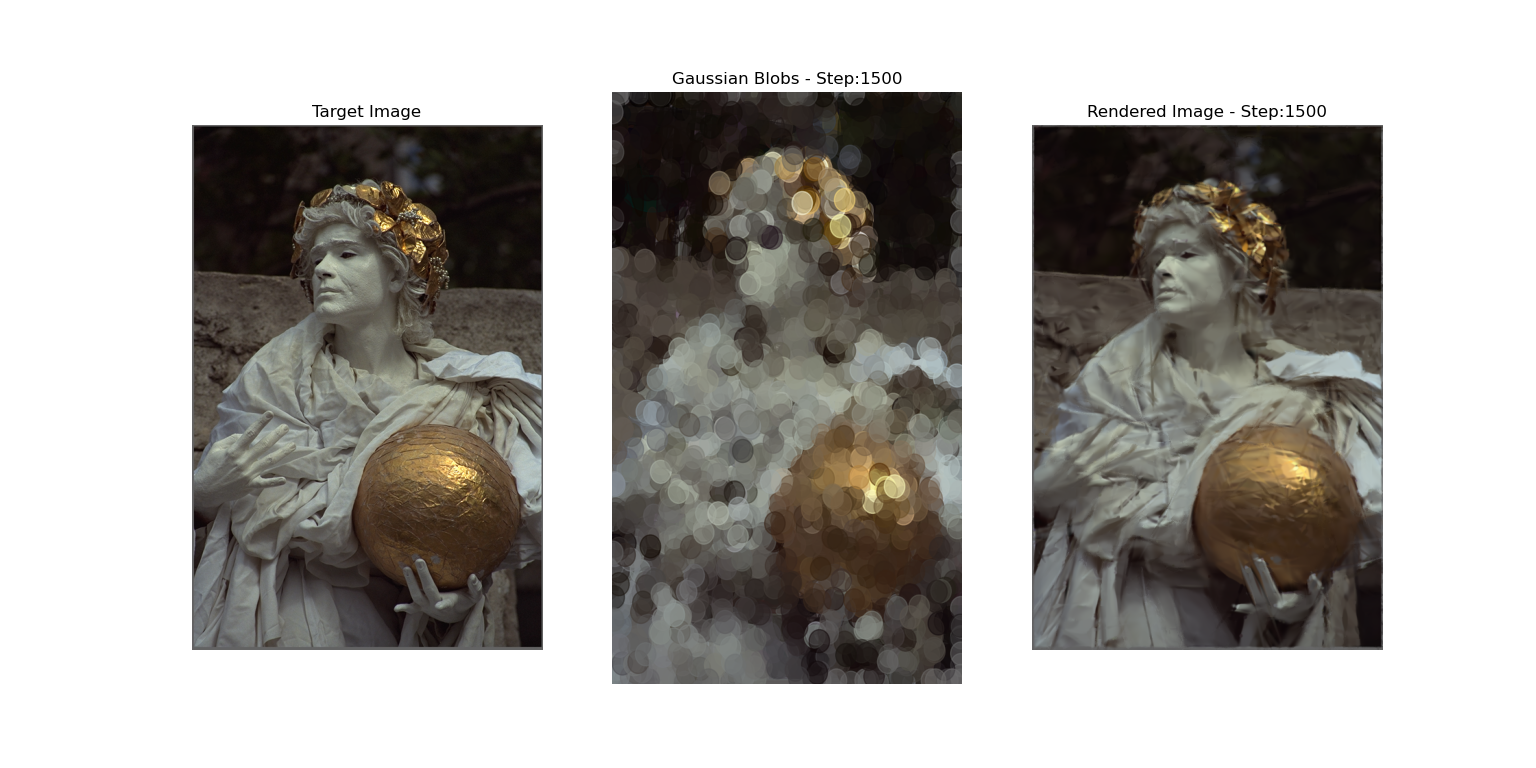
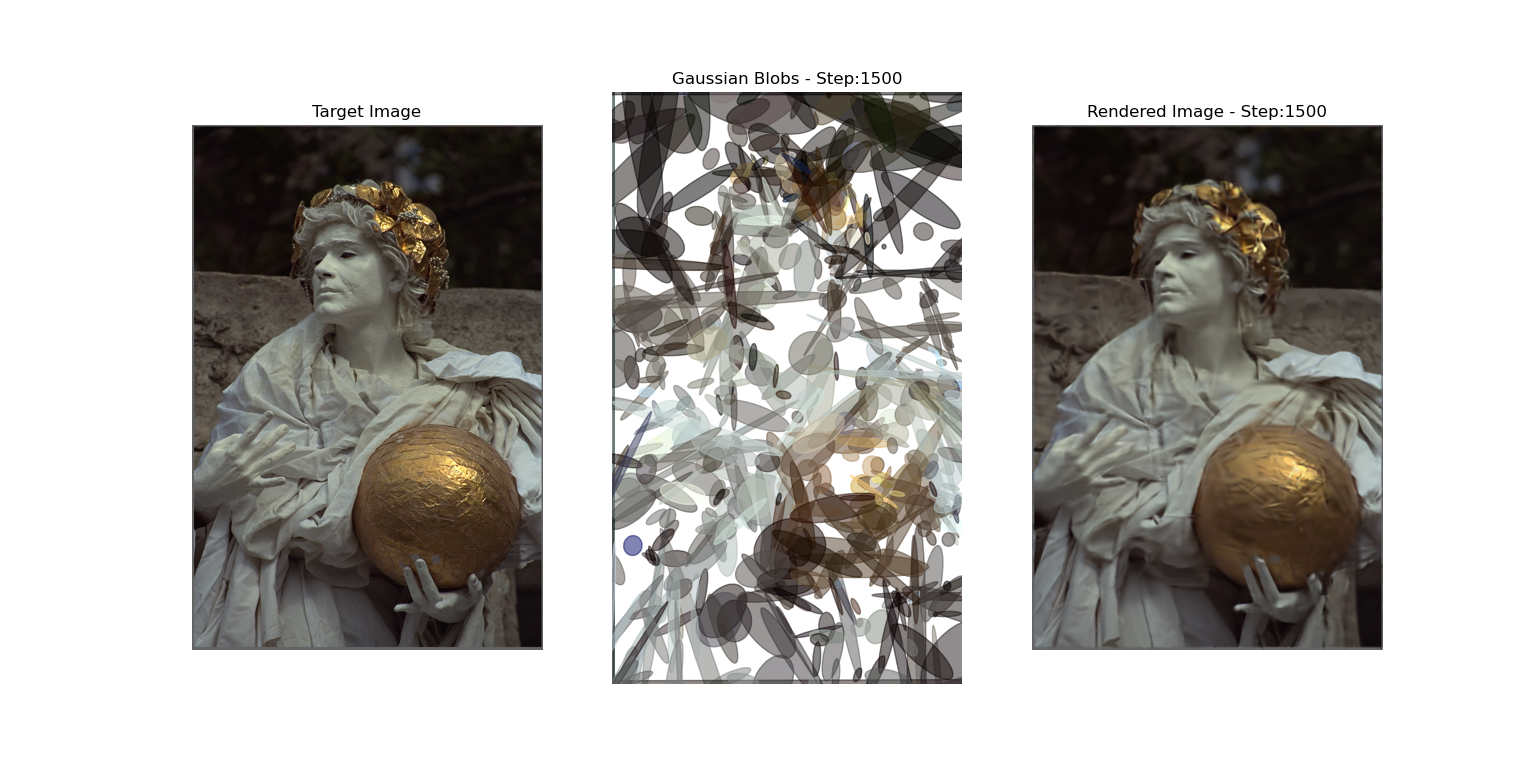
Add radix

diff --git a/model.py b/model.py
@@ -4,6 +4,7 @@ import torch
 import torch.nn.functional as F
 import torch.optim as optim
 from pytorch_msssim import MS_SSIM
+from pytorch_msssim import ssim
 from renderer_wrapper import GaussianRenderer
 import matplotlib.pyplot as plt
 from matplotlib.patches import Ellipse
@@ -50,10 +51,10 @@ class ImageGSOptimizer:
         os.makedirs(save_dir, exist_ok=True)
 
         # Default parameters (can be overridden)
-        self.N_total = kwargs.get('N_total', 1000)
+        self.N_total = kwargs.get('N_total', 10000)
         self.steps = kwargs.get('steps', 1500)
-        self.H_t = kwargs.get('H_t', 32)
-        self.W_t = kwargs.get('W_t', 32)
+        self.H_t = kwargs.get('H_t', 16)
+        self.W_t = kwargs.get('W_t', 16)
         self.K = kwargs.get('K', 10)
         self.max_G_per_tile = kwargs.get('max_G_per_tile', 100)
         self.lambda_init = kwargs.get('lambda_init', 0.3)
@@ -91,7 +92,6 @@ class ImageGSOptimizer:
 
         means = torch.stack([xs.float(), ys.float()], dim=1).to(self.device)
         rotations = torch.zeros(N_init, device=self.device)
-        # log_scales = torch.full((N_init,2), math.log(self.init_scale_pixels), device=self.device)
         inv_scales = torch.full((N_init,2), 1.0/self.init_scale_pixels, device=self.device)
         colors = self.target_image[ys, xs, :].to(self.device).float()
 
@@ -157,7 +157,6 @@ class ImageGSOptimizer:
 
                     new_means = torch.stack([xs_add.float(), ys_add.float()], dim=1).to(self.device)
                     new_rot = torch.zeros(n_add, device=self.device)
-                    # new_log_sc = torch.full((n_add,2), math.log(self.init_scale_pixels), device=self.device)
                     new_log_sc = torch.full((n_add,2), 1.0/self.init_scale_pixels, device=self.device)
                     new_colors = self.target_image[ys_add, xs_add, :].to(self.device).float()
 
@@ -193,13 +192,22 @@ class ImageGSOptimizer:
         axes[0].axis('off')
         
         axes[1].set_facecolor('black')
-        #scales = torch.exp(inv_scales).detach().cpu().numpy()
         scales = 1.0 / inv_scales.detach().cpu().numpy()
         means_np = means.detach().cpu().numpy()
         rotations_np = rotations.detach().cpu().numpy()
         colors_np = colors.detach().cpu().numpy()
         
-        for (x, y), (sx, sy), theta, color in zip(means_np, scales, rotations_np, colors_np):
+        # Sample 20% of the Gaussians
+        N = means_np.shape[0]
+        sample_size = max(1, N // 5)  # at least one
+        sample_indices = np.random.choice(N, sample_size, replace=False)
+
+        for idx in sample_indices:
+            (x, y) = means_np[idx]
+            (sx, sy) = scales[idx]
+            theta = rotations_np[idx]
+            color = colors_np[idx]
+
             ell = Ellipse((x, y), width=6*sx, height=6*sy,
                         angle=theta*180/math.pi, edgecolor=color, facecolor=color, alpha=0.5)
             axes[1].add_patch(ell)
@@ -224,21 +232,19 @@ class ImageGSOptimizer:
             plt.savefig(os.path.join(self.save_dir,'visualization_step_'+str(step)+'.png')) 
             plt.close(fig)
 
-# ------------------------------
-# Example usage
-# ------------------------------
+
 if __name__ == "__main__":
 
     device='cuda'
 
     # Load your image
-    img_path = "./kodak/kodim17.png"  # replace with your file path
-    img_pil = Image.open(img_path).convert("RGB")  # ensure 3 channels
+    img_path = "./kodak/kodim17.png"  
+    img_pil = Image.open(img_path).convert("RGB")  
 
     # Transform to tensor in [0,1] and send to device
     transform = T.ToTensor()  # converts to [C,H,W] float in [0,1]
     target_image = transform(img_pil).permute(1, 2, 0).to(device)  # [H,W,3]
 
     optimizer = ImageGSOptimizer(target_image, save_dir="gs_output", device=device,
-                                 N_total=10000, steps=1500, H_t=16, W_t=16, add_interval=250)
+                                 N_total=3000, steps=2000, H_t=16, W_t=16, add_interval=250)
     means, rotations, inv_scales, colors, debug = optimizer.optimize()
